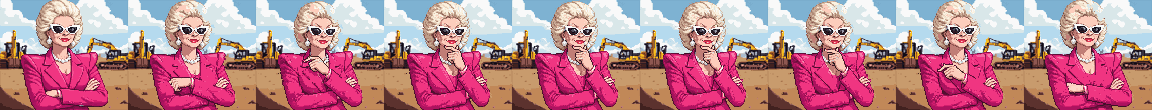
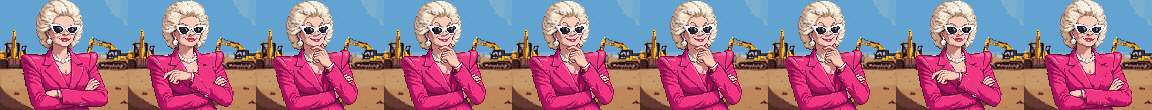
Remake Vivian Sterling and Nadia without ghosting
Both characters are now animated on transparent backgrounds and every
frame is laid over one fixed background plate, so the scenery can no
longer smear into them or leave ghost frames. Vivian's sky is cleared of
clouds so her hair stands out; Nadia gets a soft glow behind her so the
black wetsuit reads against the jungle. Nadia's signature is now pulling
the dive mask down and nodding (no stray thumbs-up hand). Profile
pictures rebuilt; CHAR_ANIM.v bumped so browsers fetch the new strips.

diff --git a/public/data.js b/public/data.js
@@ -197,7 +197,7 @@
     },
     // Change `v` whenever any character art is replaced: the new address makes every browser (desktop and phone)
     // fetch the new strips at once instead of showing ones it saved earlier.
-    v: '20261115',
+    v: '20261120',
     // skin = a skin id from SKINS below (null or missing = the character's original look)
     src: (role, anim, skin) => 'assets/characters/' + role + '/' + (skin ? 'skins/' + skin + '/' : '') + anim + '.png?v=' + CHAR_ANIM.v,
   };
